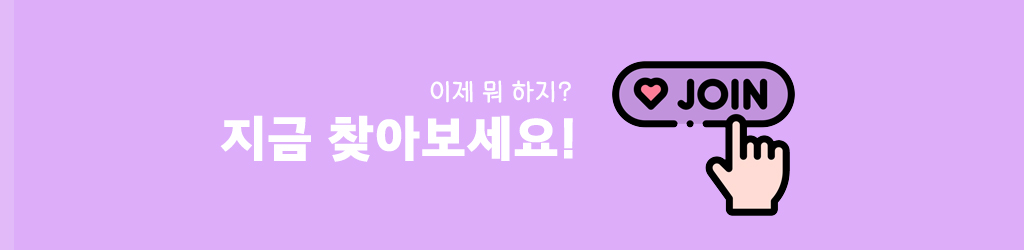
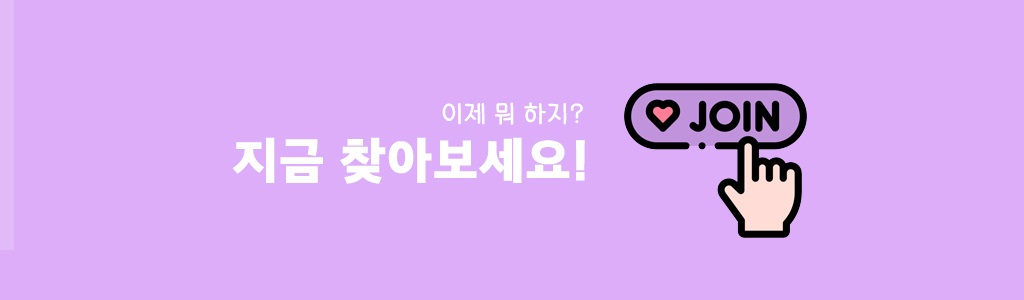
캐러셀 비율 수정
PC 1024*300 모바일 이미지 비율 유지

Changed region(s): [[0.2188, 0.224, 0.8125, 0.868]]

diff --git a/src/components/HomeCarousel.js b/src/components/HomeCarousel.js
@@ -1,15 +1,16 @@
 import { Carousel } from 'antd';
 
 const contentStyle = {
-  height: '250px',
   color: '#fff',
+  width: "100%",
+  height: "auto",
   lineHeight: '160px',
   textAlign: 'center',
   background: '#364d79',
 };
 
 const imgFit = {
-  height: '250px',
+  height: '100%;',
   width: '100%',
   objectFit: 'cover',
 };
@@ -21,15 +22,15 @@ const setCarousel = [
   },
   {
     key: 2,
-    src: 'https://resize.hswstatic.com/w_1200/gif/arctic-fox-1.jpg',
+    src: 'banner2.jpg',
   },
 ];
 
 const HomeCarousel = () => {
   return (
     <Carousel autoplay>
-      {setCarousel.map((list, index) => (
-        <div key={index}>
+      {setCarousel.map((list) => (
+        <div key={list.key}>
           <h3 style={contentStyle}>
             <img style={imgFit} src={list.src} alt={list.src} />
           </h3>

diff --git a/src/components/Layout.css b/src/components/Layout.css
@@ -54,6 +54,7 @@ h1 {
   height: auto;
   font-size: 32px;
   font-weight: 700;
+  z-index: 1;
 }
 
 .logo img {
@@ -133,6 +134,7 @@ h1 {
   justify-content: center;
 }
 
+
 @media screen and (max-width: 1024px) {
   .header_wrap,
   .ant-layout-content,
@@ -143,6 +145,15 @@ h1 {
 }
 
 @media screen and (max-width: 768px) {
+
+
+  .logo {
+    font-size: 24px;
+  }
+
+  .ant-layout-header{
+    height: 60px;
+  }
   .topMenu {
     display: none;
   }
@@ -159,11 +170,17 @@ h1 {
   }
 
   .headerNav {
-    position: absolute;
-    padding: 25px 20px;
+    position: fixed;
+    top: 0;
+    left: 0;
+    padding-top: 20px;
+    padding-left: 20px;
   }
 
   .ant-layout-footer {
     margin-bottom: 64px;
   }
+
+ 
+
 }
